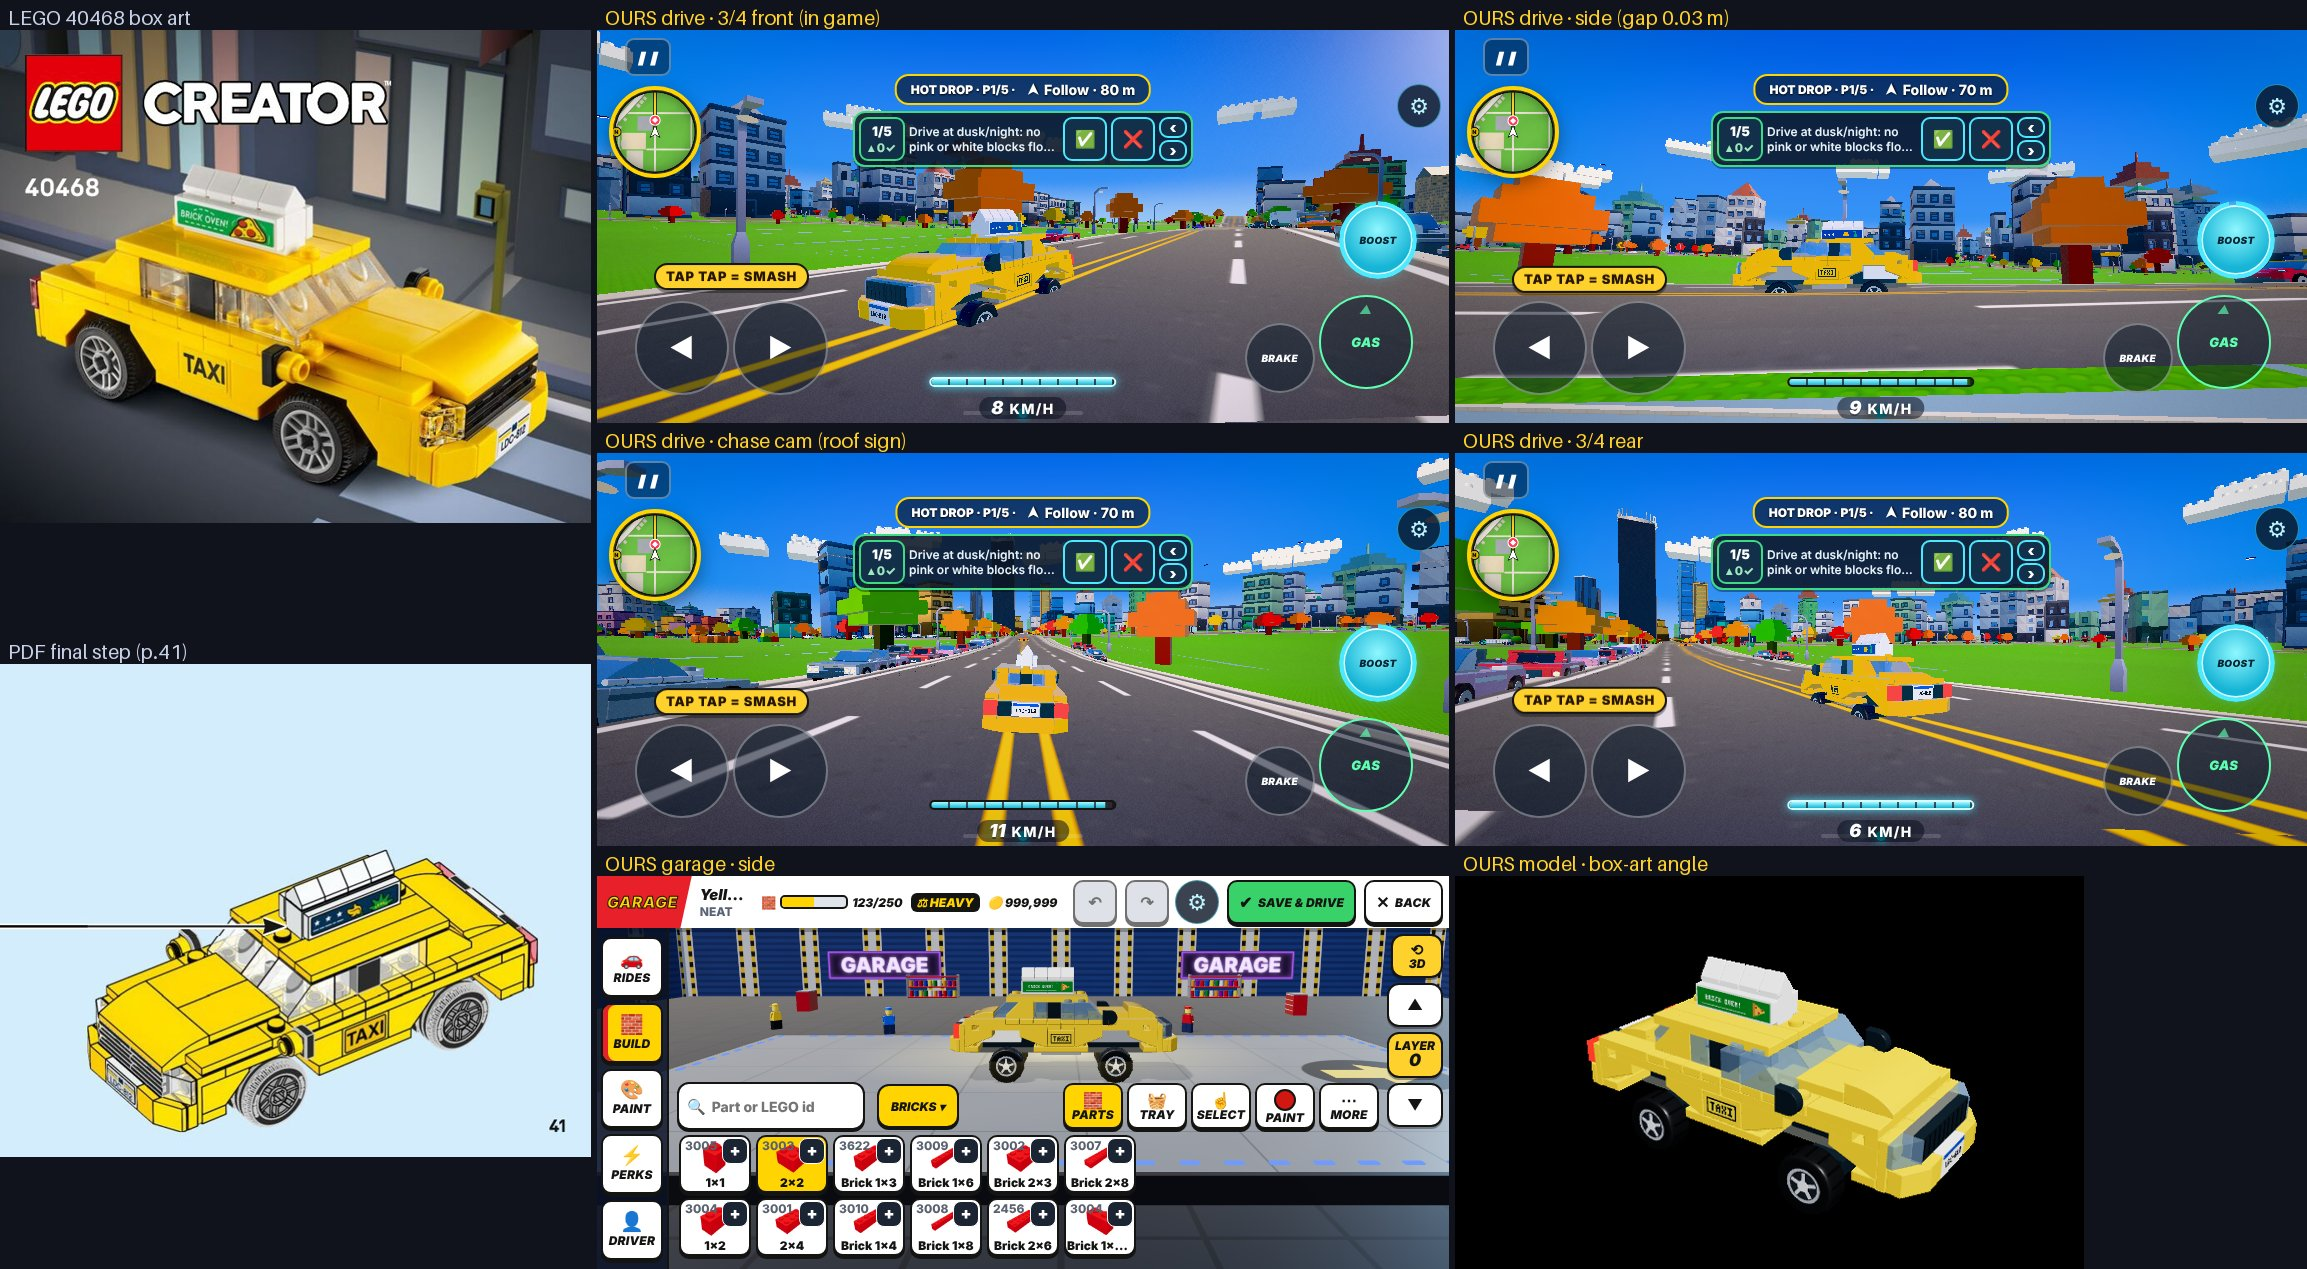
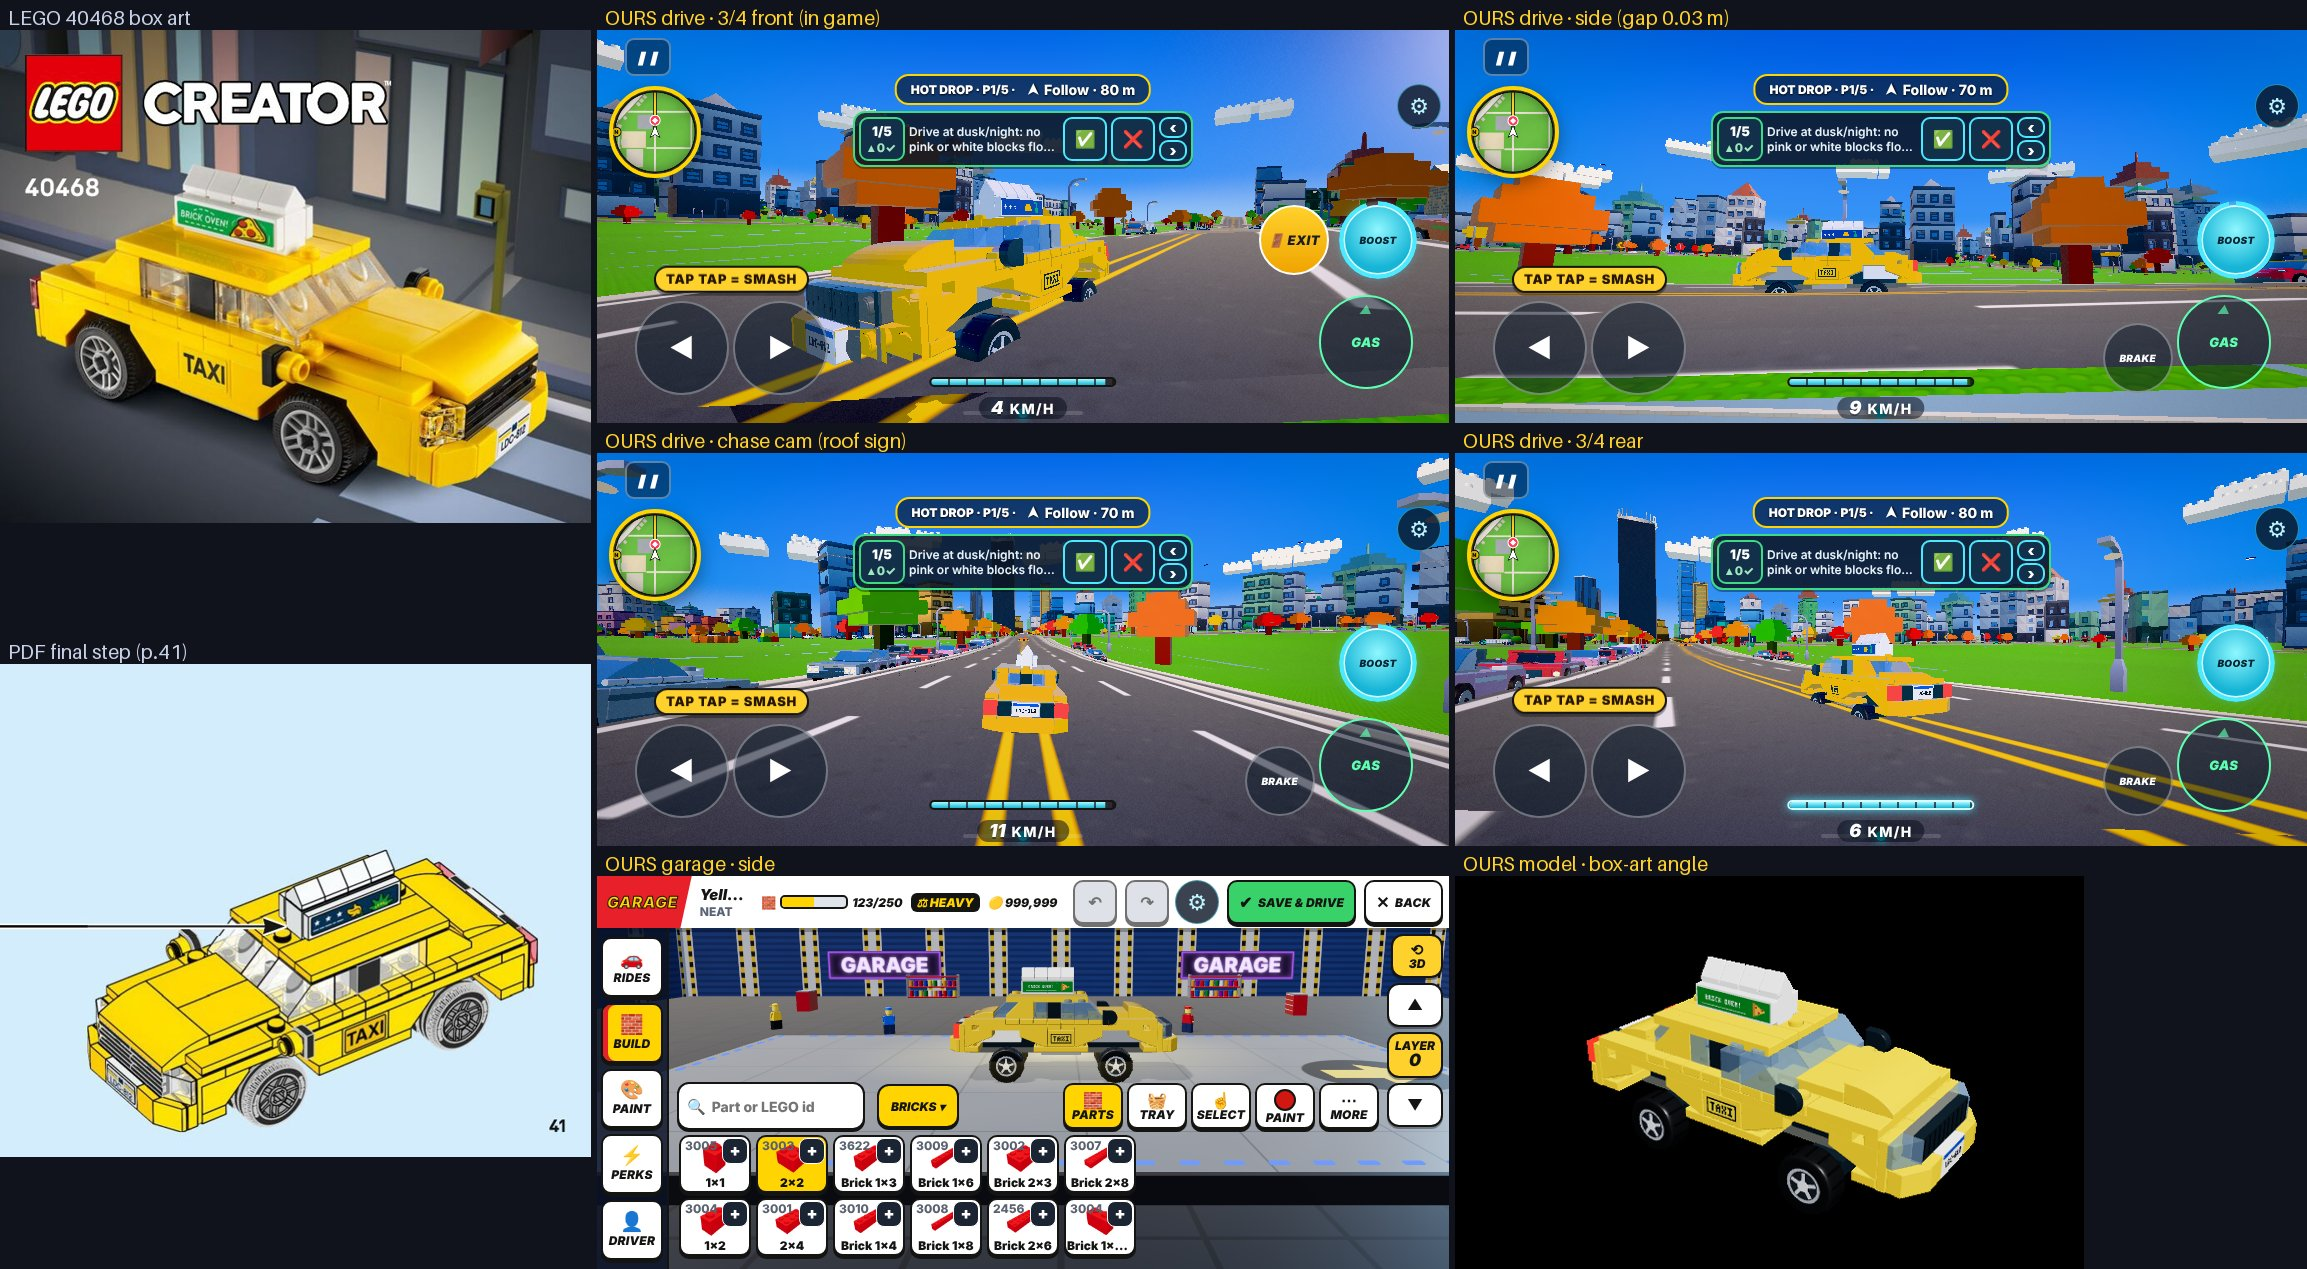
taxi16: closer in-game 3/4 front on sheet v2; tPlay CAR uses BACK (SAVE & DRIVE started a drive and hung Athens)
Claude-Session: https://claude.ai/code/session_016Q794yNXWAw4PMLdg4Ppkc

Changed region(s): [[0.2497, 0.0307, 0.6554, 0.3381], [0.4993, 0.2459, 0.6242, 0.3381], [0.5306, 0.0615, 0.5618, 0.0922]]

diff --git a/t4/tx16drive.js b/t4/tx16drive.js
@@ -3,13 +3,13 @@ const {chromium}=require('/opt/node22/lib/node_modules/playwright');const OUT=pr
 (async()=>{const b=await chromium.launch({args:['--use-gl=swiftshader','--enable-unsafe-swiftshader','--ignore-gpu-blocklist']});const ctx=await b.newContext({viewport:{width:852,height:393},isMobile:true,hasTouch:true});
  const p=await ctx.newPage();const errs=[];p.on('pageerror',e=>errs.push(String(e)));p.on('console',m=>{if(m.type()==='error')errs.push(m.text())});const ev=(f,a)=>p.evaluate(f,a),W=ms=>p.waitForTimeout(ms);
  await p.goto(process.argv[2]);await p.waitForFunction(()=>window.__mho&&__mho.state==='menu',null,{timeout:240000});
- await ev(c=>{localStorage.clear();localStorage.setItem('mho_slot','1');0},CAR);await p.reload();
+ await ev(c=>{localStorage.clear();localStorage.setItem('mho_slot','1');if(c.ath){localStorage.setItem('mho_city@1','ath');localStorage.setItem('mho_athd@1','A');localStorage.setItem('mho_roam.ath@1','{"otg":{}}');localStorage.setItem('mho_story.ath@1','{"seen":1}')}},{ath:process.env.CITY==='ath'});await p.reload();
  await p.waitForFunction(()=>window.__mho&&__mho.state==='menu',null,{timeout:240000});const cdp=await ctx.newCDPSession(p);
  const tapXY=async(x,y)=>{const tp=[{x,y,id:1,radiusX:4,radiusY:4,force:1}];await cdp.send('Input.dispatchTouchEvent',{type:'touchStart',touchPoints:tp});await cdp.send('Input.dispatchTouchEvent',{type:'touchEnd',touchPoints:[]});await W(700)};
  const tap=async s=>{const e=await p.$(s);if(!e||!await e.isVisible())return 0;await e.scrollIntoViewIfNeeded().catch(()=>{});await W(300);const bb=await e.boundingBox();if(!bb)return 0;await tapXY(bb.x+bb.width/2,bb.y+bb.height/2);return 1};
  if(CAR!=='rod'){await tap('#gbMenuBtn');await W(1500);await tap('#r2R [data-r2m="rides"]');await W(1200);console.log('pick',await tap('[data-gc="'+CAR+'"]'));await W(2000);await p.screenshot({path:OUT+'/pick.png'});console.log('eq0',await ev(()=>__g9c.eq('car')));console.log('save',await tap('#gbSave'));await W(3000);console.log('eq',await ev(()=>__g9c.eq('car')))}
  console.log('sel',await ev(()=>{try{return JSON.parse(localStorage.getItem('mho_gar')).sel}catch(e){return 'x'}}));
- await tap('#hcStory');await W(800);await tap('#slotList .go');
+ await p.screenshot({path:OUT+'/menu0.png'});console.log('story',await tap('#hcStory'));await W(1500);await p.screenshot({path:OUT+'/slots.png'});console.log('go',await tap('#slotList .go'),await ev(()=>[...document.querySelectorAll('#slotList .go')].map(e=>e.textContent).join('|')));
  for(let i=0;i<150;i++){await W(2000);const s=await ev(()=>__mho.state+'|'+!!(__mho.LD&&__mho.LD.on));if(i%10==0)console.log('wait',i,s);if(s==='roam|false')break;if(s.startsWith('menu')&&i%5==4){await tap('#hcStory');await W(800);await tap('#slotList .go')}}
  if(process.env.OLD)for(let i=0;i<10;i++){let hit=0;for(const l of[p.getByText('SKIP',{exact:false}),p.getByText('TAP TO CONTINUE'),p.locator('#m1Next')]){const e=l.first();if(await e.count()&&await e.isVisible()){const bb=await e.boundingBox();console.log('oldtap',await e.evaluate(x=>(x.id||x.className||x.tagName)+':'+x.textContent.slice(0,40)));await tapXY(bb.x+bb.width/2,bb.y+bb.height/2);hit=1;break}}if(!hit&&i>3)break;await W(1500)}
  else for(let i=0;i<12;i++){let hit=0;for(const s of['#storyGo','#m1Cs','#rcGo','.m1go','#resBtn','#tutSkip','#m1Next']){if(await tap(s)){hit=1;break}}if(!hit&&i>3)break;await W(1200)}
@@ -23,7 +23,7 @@ const {chromium}=require('/opt/node22/lib/node_modules/playwright');const OUT=pr
  console.log('bbox',JSON.stringify(await BB()));
  const cam=async(n,f)=>{await ev(f);await W(2500);await p.screenshot({path:OUT+'/'+n+'.png'});console.log('shot',n)};
  await cam('side_low',()=>{const R=__mho.RO,g=__mho.gnd(R.x,R.z,R.y+.3),sx=Math.cos(R.h),sz=-Math.sin(R.h);__gnb.cam([R.x+sx*6,g+.9,R.z+sz*6,R.x,g+1.6,R.z])});
- await cam('f34',()=>{const R=__mho.RO,g=__mho.gnd(R.x,R.z,R.y+.3),fx=Math.sin(R.h),fz=Math.cos(R.h),sx=Math.cos(R.h),sz=-Math.sin(R.h);__gnb.cam([R.x+fx*5+sx*3.6,g+1.8,R.z+fz*5+sz*3.6,R.x,g+1.7,R.z])});
+ await cam('f34',()=>{const R=__mho.RO,g=__mho.gnd(R.x,R.z,R.y+.3),fx=Math.sin(R.h),fz=Math.cos(R.h),sx=Math.cos(R.h),sz=-Math.sin(R.h);__gnb.cam([R.x+fx*3.4+sx*2.4,g+1.5,R.z+fz*3.4+sz*2.4,R.x,g+1.45,R.z])});
  await cam('f34b',()=>{const R=__mho.RO,g=__mho.gnd(R.x,R.z,R.y+.3),fx=-Math.sin(R.h),fz=-Math.cos(R.h),sx=Math.cos(R.h),sz=-Math.sin(R.h);__gnb.cam([R.x+fx*5+sx*3.6,g+1.8,R.z+fz*5+sz*3.6,R.x,g+1.7,R.z])});
  console.log('gap',JSON.stringify(await ev(()=>{try{return __gnb.gap()}catch(e){return String(e)}})));
  await cam('traffic_low',()=>{const M=__mho,R=M.RO;let c=null,bd=1e9;for(const q of M.HUB.cars||[]){if(q.dead)continue;const d=Math.hypot(q.x-R.x,q.z-R.z);if(d<bd){bd=d;c=q}}if(!c)return;const g=M.gnd(c.x,c.z,(c.y||0)+.3);__gnb.cam([c.x+4.5,g+.8,c.z+4.5,c.x,g+1.3,c.z]);window.__tcD=Math.round(bd)});console.log('traffic dist',await ev(()=>window.__tcD));

diff --git a/tools/tPlay.js b/tools/tPlay.js
@@ -130,8 +130,8 @@ async function play(b,mode){const phone=mode==='phone';const vp=phone?{width:852
   await p.goto(URL);await p.waitForFunction(()=>window.__mho&&__mho.state==='menu',null,{polling:500});
   await p.evaluate(([c])=>{localStorage.clear();localStorage.setItem('mho_slot','1');if(c==='ath'){localStorage.setItem('mho_city@1',c);localStorage.setItem('mho_athd@1','A');localStorage.setItem('mho_roam.ath@1','{"otg":{}}');localStorage.setItem('mho_story.ath@1','{"seen":1}')}},[city]);
   await p.reload();await p.waitForFunction(()=>window.__mho&&__mho.state==='menu',null,{polling:500});
-  if(process.env.CAR){const C=process.env.CAR,gc=`[data-gc="${C}"]`;await tap('#gbMenuBtn');await tick(90);await tap('#r2R [data-r2m="rides"]');await tick(60);  // CAR=<preset id>: a person equips that ride in the garage first (RIDES → scroll → card → SAVE)
-   await p.evaluate(s=>{const e=document.querySelector(s);if(e)e.scrollIntoView({block:'center'})},gc);await tick(20);await tap(gc);await tick(90);await tap('#gbSave');await tick(120);
+  if(process.env.CAR){const C=process.env.CAR,gc=`[data-gc="${C}"]`;await tap('#gbMenuBtn');await tick(90);await tap('#r2R [data-r2m="rides"]');await tick(60);  // CAR=<preset id>: a person equips that ride in the garage first (RIDES → scroll → card → BACK; the card tap equips it)
+   await p.evaluate(s=>{const e=document.querySelector(s);if(e)e.scrollIntoView({block:'center'})},gc);await tick(20);await tap(gc);await tick(90);await tap('#gbBack');await tick(120);
    const eq=await p.evaluate(()=>__g9c.eq('car'));ok(eq===C,'equipped '+C+' in the garage',eq);for(let i=0;i<30&&!(await p.evaluate(()=>__mho.state==='menu'));i++)await tick(30)}
   if(mode==='phone'&&city===CITIES[0])await shot('menu');
   // a person taps STORY; the loading screen plays; then intro cards are tapped away
